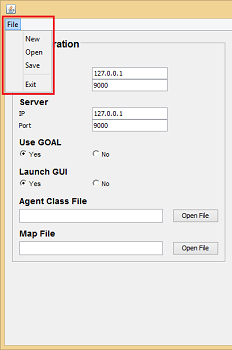
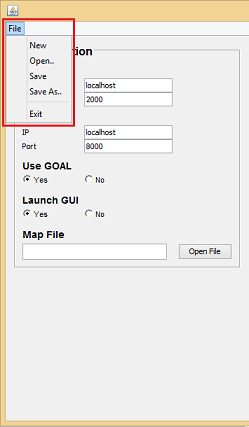
Updated

diff --git a/doc/ScenarioGUI/Scenario Editor.tex b/doc/ScenarioGUI/Scenario Editor.tex
@@ -16,26 +16,28 @@
 This document describes how to make use of the Scenario Editor (Figure 1). When you open the editor, you see two main parts:
 \begin{enumerate}
 \item The Configuration panel, which is used to create, open and save configuration files.
-\item The Bot panel, where a list of the bots is being displayed. Here you can create, modify, rename, duplicate and delete bots. At the top of this panel is indicated how many bots, e-partners and humans are currently created.
+\item The Entity panel, where a list of the bots and a list of e-partners are being displayed. Here you can create, modify, rename and delete bots and e-partners.
 \end{enumerate}
 
 \begin{figure}
 \includegraphics{editor.png}
-\caption{The Scenario Editor}
+\caption{Scenario Editor}
 \end{figure}
 
 \section{General use}
 At the top of the editor you can see a $File$ menu. If you click on that, you get the options to create a new configuration, save your configuration, open a configuration and to exit the editor.
 
-On the left side of the editor you can configure a scenario as you like. The Client IP, the Client Port, the Server IP and the Server Port should already contain the default values. You can change them if you need to. You can also indicate whether you want to make use of GOAL and/or open a GUI. If you have an Agent class file or a Map file you want to use, you can import them by selecting the $Open$ $file$ buttons at the right sections.
+On the left side of the editor you can configure a scenario as you like. The Client IP, the Client Port, the Server IP and the Server Port should already contain the default values. You can change them if you need to. You can also indicate whether you want to make use of GOAL and/or open a GUI. If you have a Map file you want to use, you can import it by selecting the $Open$ $file$ buttons at the right section.
 
-On the right side of the editor you can create, modify, rename, duplicate and delete bots. There also is a list of bots that are created, and on top of the list there is an indication of how many bots, e-partners and humans there are.
+On the right side of the editor you can create, modify, rename and delete bots. There also are a list of bots and a list of e-partners that are created, and on below each list there is an indication of how many bots or e-partners are created.
 \pagebreak
 \section{Configuration Panel}
 A picture of the configuration panel can be found in figure 2.
 \begin{figure}
+\begin{center}
 \includegraphics{config.png}
-\caption{The Configuration Panel}
+\end{center}
+\caption{Configuration Panel}
 \end{figure}
 \subsection{New configuration file}
 To create a new configuration file, select $File$ $\to$ $New$ in the menu bar. You will now get a new configuration with the default values. Creating a new configuration will reset all previous changes you have made, so make sure you save your configuration first if you want to want to keep it.
@@ -46,24 +48,39 @@ To save your configuration file, select $File$ $\to$ $Save$ in the menu bar. A s
 \subsection{Open configuration file}
 To open an existing configuration file, select $File$ $\to$ $Open$ in the menu bar. A screen will pop up where you can select the folder where the configuration file is saved to. Once you have selected the right folder, select the file and click the $Open$ button.
 \pagebreak
-\section{Bot Panel}
-A picture of the configuration panel can be found in figure 3.
+\section{Entity Panel}
+The entity panel exists of 2 parts; the top part shows the bot options and the bottom part shows the e-partner options. A picture of the entity panel can be found in figure 3.
 \begin{figure}
+\begin{center}
 \includegraphics{bot.png}
-\caption{The Bot Panel}
+\end{center}
+\caption{Entity Panel}
 \end{figure}
 \subsection{Create new bot}
-To create a new bot, click the $New$ $bot$ button. The Bot Store will open in a new window where you can create your bot.
+To create a new bot, click the $New$ $Bot$ button. A new bot will appear in the list.%The Bot Store will open in a new window where you can create your bot.
 
 \subsection{Modify bot}
-To modify a bot, select the bot you want to modify in the bot list and click the $Modify$ $bot$ button. The bot store will open in a new window where you can modify your bot.
+To modify a bot, select the bot you want to modify in the bot list and click the $Modify$ $Bot$ button. The bot store will open in a new window where you can modify your bot.
+
+\subsection{Change controller type}
+To change how a bot is controlled, you can either use the $Modify$ $Bot$ button, or you can change it in the scenario editor. To change the controller type in the scenario editor, select the bot you want to change and double click. You should now be able to enter a new controller.
 
 \subsection{Rename bot}
-To rename a bot, select the bot you want to rename in the list with bots. Enter the new name in the textfield above the $Rename$ $bot$ button and click the $Rename$ $bot$ button.
-
-\subsection{Duplicate bot}
-To duplicate a bot, select the bot you want to duplicate in the list with bots. Enter the number of times you want to duplicate the bot in the box above the $Duplicate$ $bot$ button and click the $Duplicate$ $bot$ button.
+To rename a bot, you can either use the $Modify$ $Bot$ button, or you can change it in the scenario editor. To rename in the scenario editor, select the bot you want to rename in the list with bots. Double click the bot's name and enter a new name. %Enter the new name in the textfield above the $Rename$ $bot$ button and click the $Rename$ $bot$ button.
 
 \subsection{Delete bot}
-To delete a bot, select the bot you want to delete in the list with bots and click the $Delete$ $bot$ button.
+To delete a bot, select the bot you want to delete in the list with bots and click the $Delete$ $Bot$ button.
+
+\subsection{Create new e-partner}
+To create a new e-partner, click the $New$ $E-partner$ button. A new e-partner will appear in the list.%The Bot Store will open in a new window where you can create your bot.
+
+\subsection{Modify e-partner}
+To modify an e-partner, select the e-partner you want to modify in the e-partner list and click the $Modify$ $E-partner$ button. A new window will open where you can modify the e-partner.
+
+\subsection{Rename e-partner}
+To rename an e-partner, select the e-partner you want to rename in the list with e-partners. Double click the e-partner's name and enter a new name. %Enter the new name in the textfield above the $Rename$ $bot$ button and click the $Rename$ $bot$ button.
+
+\subsection{Delete e-partner}
+To delete an e-partner, select the e-partner you want to delete in the list with e-partner and click the $Delete$ $E-partner$ button.
+
 \end{document}
